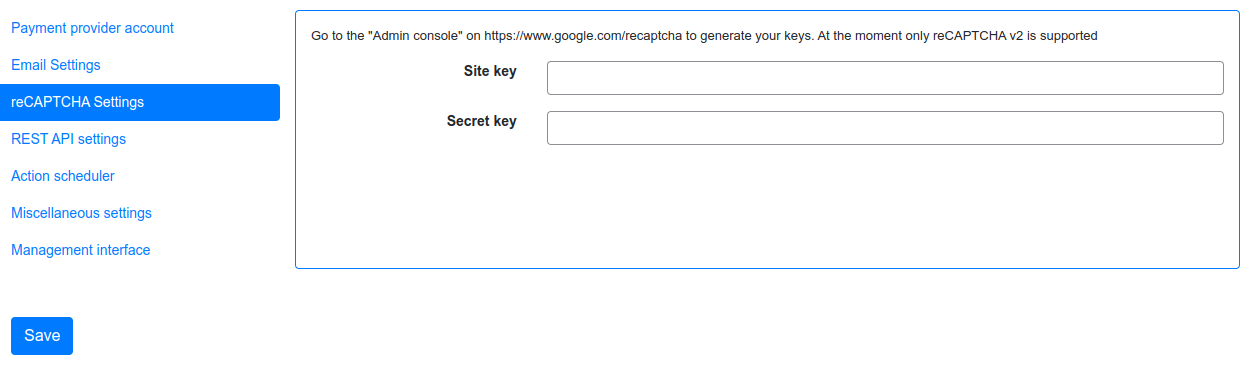
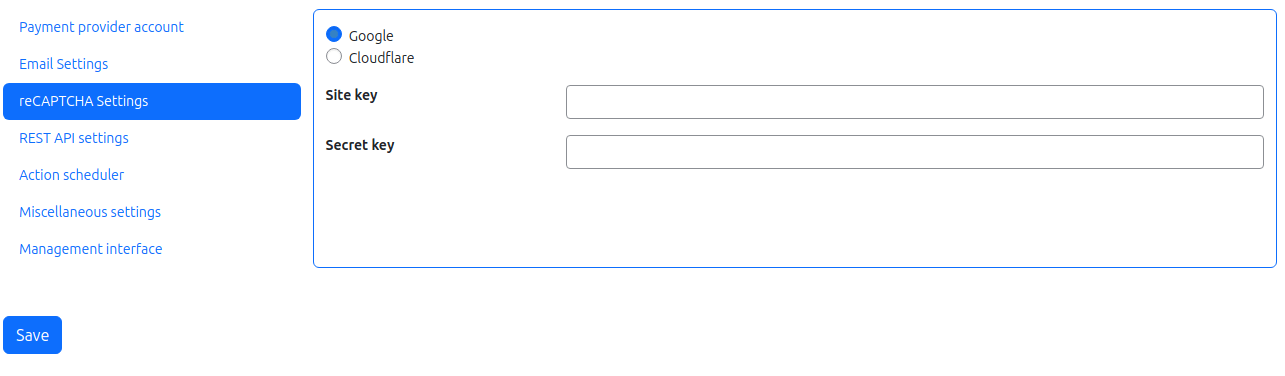
Update for version 2.3.0

diff --git a/docs/getting-started/settings.rst b/docs/getting-started/settings.rst
@@ -233,13 +233,13 @@ You can configure this in the webhooks section of the Sendgrid dashboard. For th
 Use this as URL ``https://user:password@fillinyourdomain.com/wp-json/fast-events/v1/email/webhook/sendgrid``.
 Use a valid WordPress user and an application password in the url and remove the spaces from the application password.
    
-Sendinblue API settings
-^^^^^^^^^^^^^^^^^^^^^^^
-The settings can be found in the `Sendinblue dashboard <https://www.sendinblue.com/>`_. The URL for the server is:
+Brevo API settings
+^^^^^^^^^^^^^^^^^^
+The settings can be found in the `Brevo dashboard <https://www.brevo.com/>`_. The URL for the server is:
 
 .. code-block:: html
 
-   https://api.sendinblue.com/v3/smtp/email
+   https://api.brevo.com/v3/smtp/email
    
 Sparkpost API settings
 ^^^^^^^^^^^^^^^^^^^^^^
@@ -263,10 +263,14 @@ ReCAPTCHA settings
            :target: ../_static/images/getting-started/Settings-recaptcha.png
            :alt: Settings - recaptcha
 
-At RSVP events it can of course occur that sick minds spam you with all kind of different real or bogus emailaddresses, even if you have confirmations enabled.
-Worse, they may give you a bad reputation, and receiving domains can flag you as spammer. For these cases you can use `Google reCAPTCHA <https://developers.google.com/recaptcha/>`_.
-Sign in and setup up your domain; *Fast Events* only supports v2 at the moment. Once setup, copy the keys to the :guilabel:`Site key` and :guilabel:`Secret key`.
+With RSVP events, it is possible for people to spam you with all sorts of real or fake email addresses, even if you have confirmations turned on.
+Worse, they may give you a bad reputation, and the receiving domains may flag you as a spammer.
+
+For these cases you can use `Google reCAPTCHA <https://developers.google.com/recaptcha/>`_ or `Cloudflare Turnstile <https://www.cloudflare.com/application-services/products/turnstile/>`_.
+Sign in and setup up your domain. *Fast Events* only supports Google ReCaptcha v2 checkbox at the moment. Once setup, copy the keys to the :guilabel:`Site key` and :guilabel:`Secret key`.
 Switch on the :guilabel:`ReCaptcha` flag in the `Event settings <../usage/events.html#event-settings>`_ and the booking screen will have a ReCaptcha.
+
+You must have a valid account with either Cloudflare or Google.
 
 ----
 

diff --git a/docs/getting-started/changelog.rst b/docs/getting-started/changelog.rst
@@ -1,6 +1,14 @@
 Changelog
 =========
 
+2.3.0 (14 Apr 2025)
+-------------------
+* New: Added Cloudflare Turnstile as Captcha provider.
+* Fix: Store inputfields, ticketnames and personalisation-fields un-escaped.
+* Change: Sendinblue is now Brevo.
+* Change: action-scheduler updated to the latest version (3.9.2).
+* Change: Upgrade internal components.
+
 2.2.3 (28 Jan 2025)
 -------------------
 * Fix: Store the personalized input of the tickets un-escaped.
